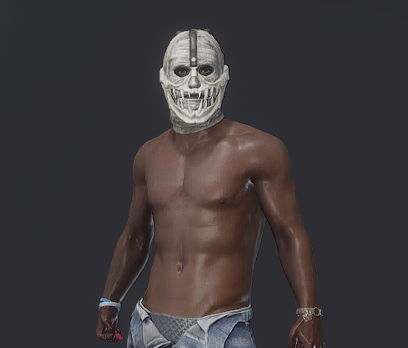
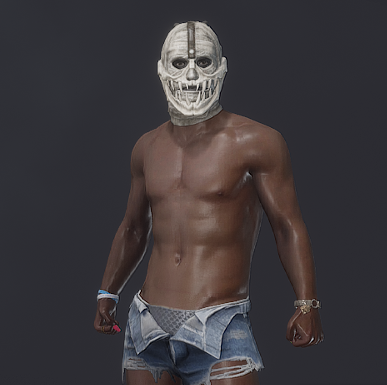
Atualiza├º├╡es feitas

Changed region(s): [[0.2171, 0.0575, 0.8372, 1.0]]

diff --git a/campeonato_squads/index.html b/campeonato_squads/index.html
@@ -167,7 +167,7 @@
             <!-- Team #5 -->
             <div class="team-card">
                 <h3>Team #5</h3>
-                <img src="players/ComedordeABOBA.gif" alt="Capitão STR4T_FPS">
+                <img src="players/ComedordeABOBA.png" alt="Capitão STR4T_FPS">
                 <p class="member-info">Capitão ✯<br> <strong>ComedordeABOBA</strong></p>
                 <hr style="border: 1px solid #0000003c; margin: 20px 0;"> <!-- Separador simples com estilo inline -->
 
